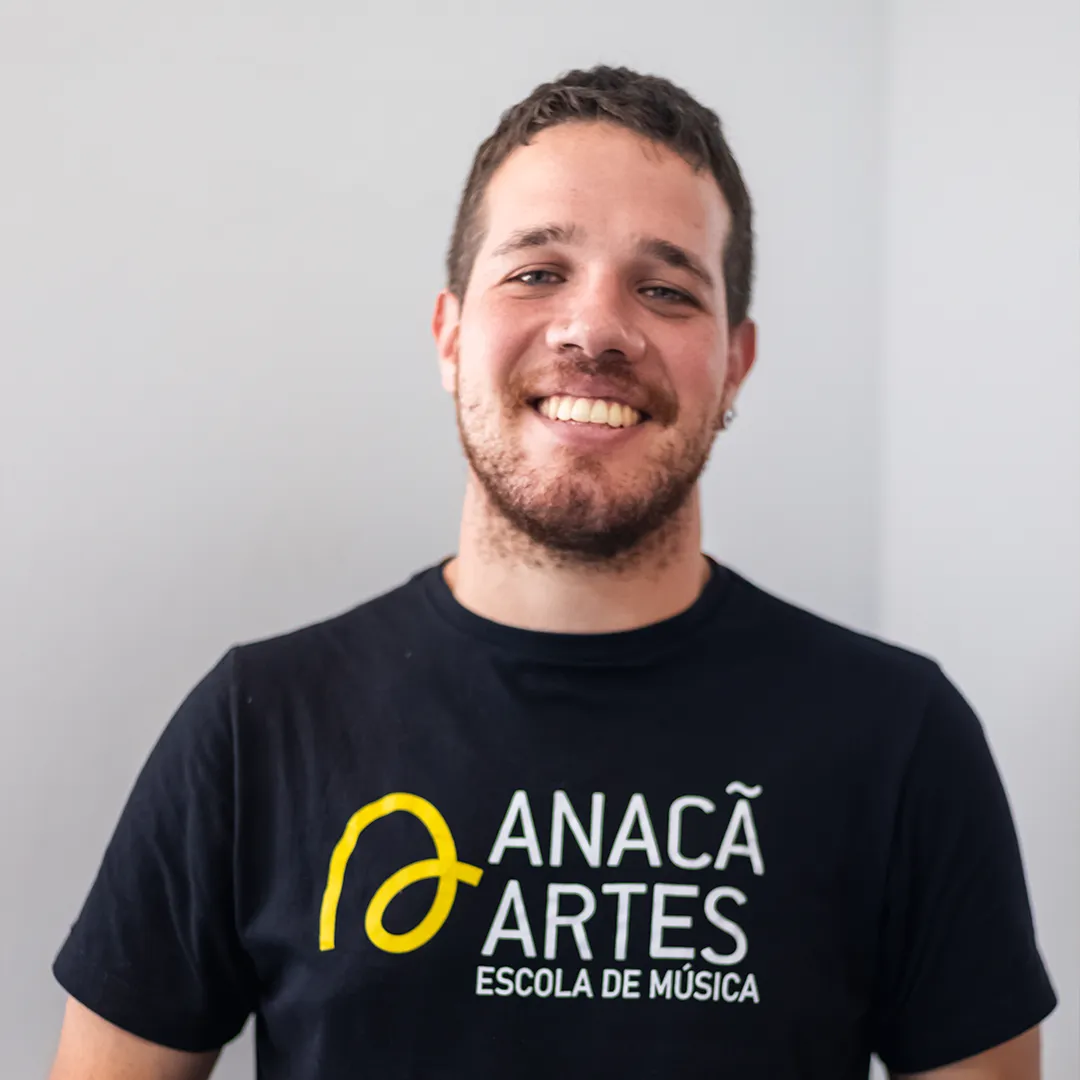
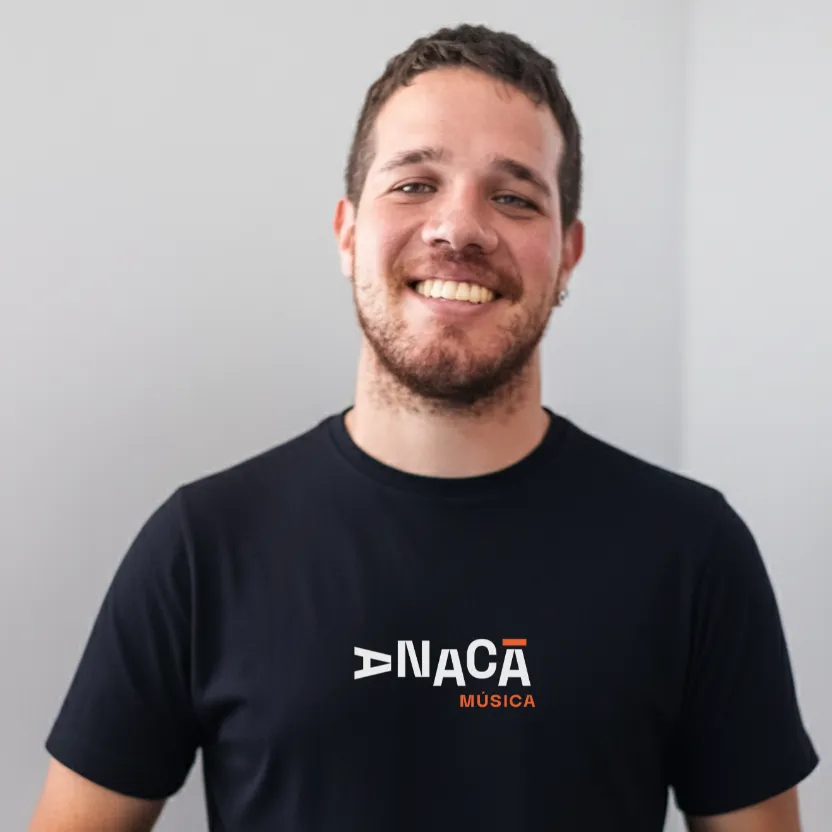
Atualiza quadro de professores: remove Alessandra e Haikaa, troca foto Gabriel
- Remove Alessandra Fernandes (saiu do quadro)
- Remove Haikaa Santamaria (não consta no cadastro atualizado)
- Atualiza foto do Gabriel Guerra
- Atualiza CLAUDE.md com detalhes de arquitetura

diff --git a/CLAUDE.md b/CLAUDE.md
@@ -1,49 +1,55 @@
-# Anacã Música — Site Institucional
+# CLAUDE.md
+
+This file provides guidance to Claude Code (claude.ai/code) when working with code in this repository.
 
 ## Contexto
-Site institucional da escola de música Anacã Música.
+Site institucional da escola de música Anacã Música (São Paulo).
 Migração de WordPress para Astro estático.
-Veja `docs/referencias/wp-export/` para referência do design original.
-Veja `docs/brand/` para logos e favicon.
-
-## Stack
-- Astro 5 (output: static)
-- Tailwind CSS (via Vite plugin)
-- Swiper (carrossel)
-- @astrojs/sitemap
+Referência do design original em `docs/referencias/wp-export/`.
+Logos e favicon em `docs/brand/`.
 
 ## Comandos
 ```bash
 pnpm install        # instalar dependências
-pnpm dev            # dev server
-pnpm build          # build de produção
+pnpm dev            # dev server (localhost:4321)
+pnpm build          # build de produção → dist/
 pnpm preview        # preview do build
 ```
 
 ## Deploy
-- **Plataforma:** Cloudflare Workers (assets estáticos)
-- **Worker name:** `anaca-musica-site` (ver `wrangler.toml`)
+- **Cloudflare Workers** (assets estáticos via `wrangler.toml`)
 - **URL:** https://anacamusica.com.br
-- **Deploy:** push na `main` → build automático no Cloudflare
+- Push na `main` → build automático
 
-## Estrutura
-```
-src/
-├── components/     # 16 componentes (Header, Footer, HeroSlider, etc.)
-├── content/        # conteúdo estruturado (cursos, professores)
-├── layouts/        # BaseLayout.astro
-├── lib/            # utilitários
-├── pages/          # 11 páginas
-└── styles/         # estilos globais
-docs/
-├── brand/          # logo.svg, favicon.svg
-├── referencias/    # wp-export (referência do design WP)
-├── progresso.md    # histórico de progresso da migração
-├── findings.md     # descobertas durante desenvolvimento
-└── task-plan.md    # plano de tarefas
-```
+## Arquitetura
+
+### Stack
+- Astro 5 (`output: 'static'`) — sem SSR
+- CSS puro com variáveis CSS (sem Tailwind runtime — variáveis definidas em `src/styles/global.css`)
+- Swiper para carrosséis
+- @astrojs/sitemap
+
+### Content model
+Conteúdo em Markdown com frontmatter (`src/content/{cursos,professores,eventos}/`). Cada `.md` define campos como `titulo`, `slug`, `categoria`, `ativo`, `ordem`, etc. Não usa Astro Content Collections API — os arquivos são lidos diretamente via `Astro.glob()` ou `import.meta.glob()`.
+
+### Routing
+- Listagens: `src/pages/cursos/index.astro`, `src/pages/professores/index.astro`, `src/pages/eventos/index.astro`
+- Detalhe: `src/pages/curso/[slug].astro`, `src/pages/professor/[slug].astro`, `src/pages/evento/[slug].astro` (singular)
+- Estáticas: `src/pages/index.astro`, `src/pages/a-escola.astro`
+
+### Layout
+`BaseLayout.astro` — wrapper único com Header, Footer, SEO component e GTM (GTM-MCRPMZ7).
+
+### Shared constants
+`src/lib/categorias.ts` — categorias de cursos, URLs do WhatsApp/Instagram, endereço e telefone. Alterar dados de contato aqui.
+
+### Design system
+- Fontes: Darker Grotesque (headings), Poppins (body) — via Google Fonts
+- Cor accent: `#FF6530` (laranja)
+- Variáveis CSS em `src/styles/global.css` extraídas do Elementor original
 
 ## Regras
-- Site é estático (`output: 'static'`), não usa SSR
+- Site é **estático** (`output: 'static'`), não usar SSR
 - Design deve seguir referência do WordPress original (`docs/referencias/wp-export/`)
-- GTM (GTM-MCRPMZ7) configurado em `BaseLayout.astro`
+- Conteúdo em português brasileiro (pt-BR)
+- Build assets em `_assets/` (configurado em `astro.config.mjs`)
